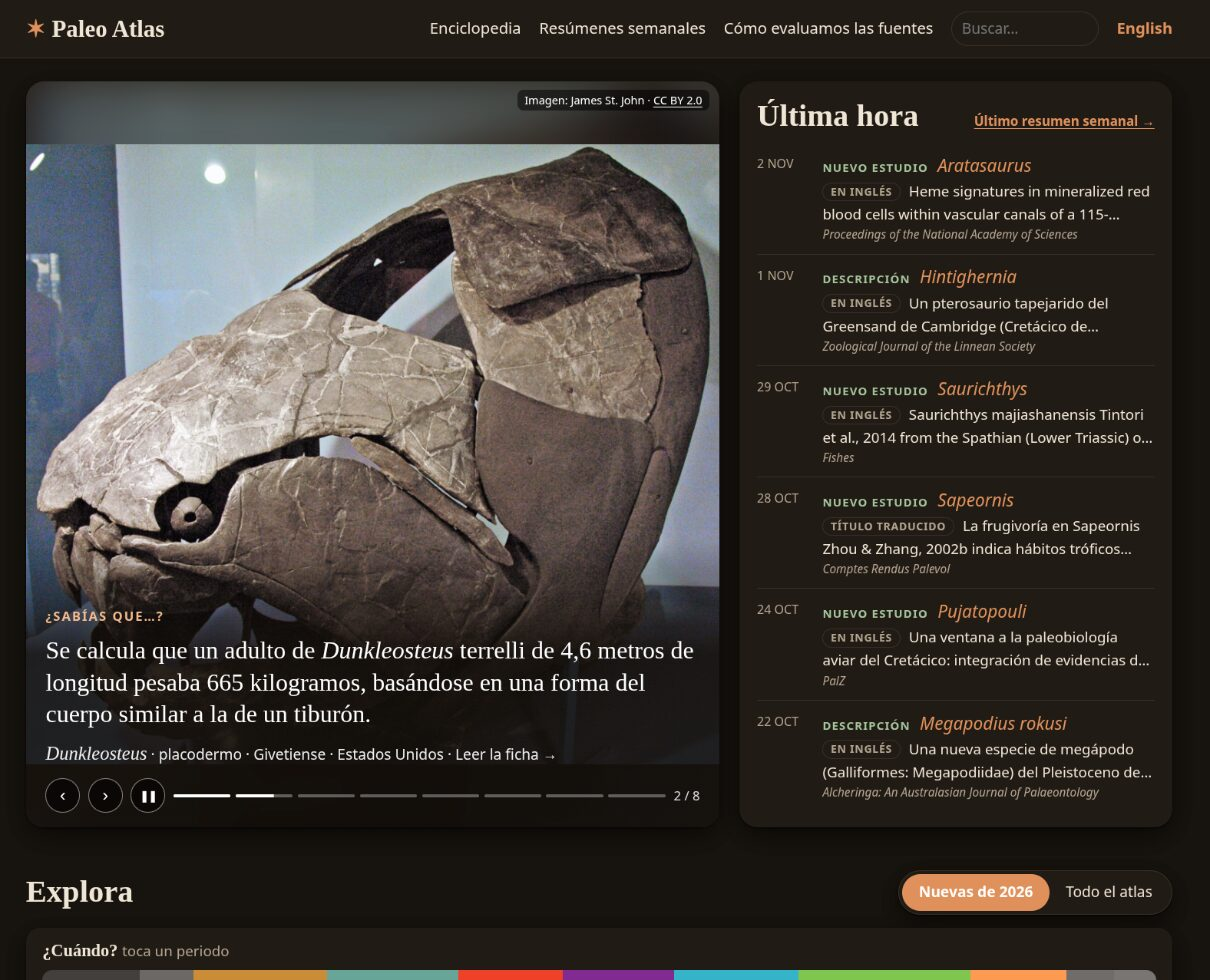
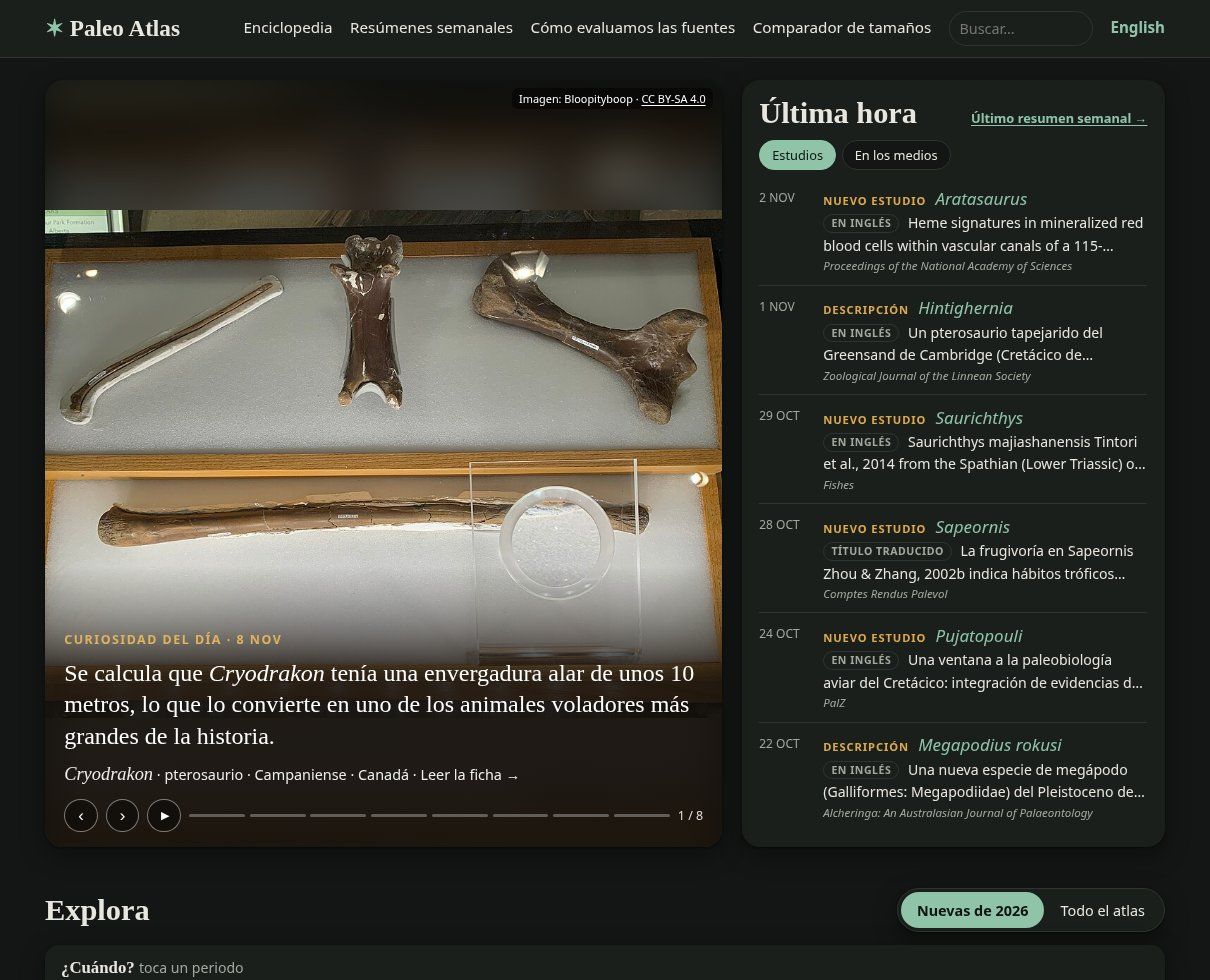
README screenshots with the new palette, and the script that takes them
Claude-Session: https://claude.ai/code/session_01V6qU33AXgN14MdfEPtxDkp

diff --git a/scripts/screenshots.py b/scripts/screenshots.py
@@ -1,0 +1,82 @@
+"""README screenshots (docs/img/web/) from the local build, in dark mode, 1210x980.
+
+    uv run paleo site
+    uv run --with playwright python scripts/screenshots.py
+
+Uses the Chromium Playwright already installed (``playwright install chromium``);
+the site is served from site/_build on a free local port while it runs.
+"""
+
+from __future__ import annotations
+
+import functools
+import http.server
+import threading
+from pathlib import Path
+
+from playwright.sync_api import sync_playwright
+
+ROOT = Path(__file__).resolve().parents[1]
+BUILD = ROOT / "site" / "_build"
+OUT = ROOT / "docs" / "img" / "web"
+VIEW = {"width": 1210, "height": 980}
+
+
+class Quiet(http.server.SimpleHTTPRequestHandler):
+    def log_message(self, *args) -> None:
+        pass
+
+
+def serve() -> tuple[http.server.ThreadingHTTPServer, str]:
+    handler = functools.partial(Quiet, directory=str(BUILD))
+    server = http.server.ThreadingHTTPServer(("127.0.0.1", 0), handler)
+    threading.Thread(target=server.serve_forever, daemon=True).start()
+    return server, f"http://127.0.0.1:{server.server_address[1]}"
+
+
+def scroll_to(page, selector: str, offset: int = 70) -> None:
+    """Put an element just under the sticky header."""
+    page.evaluate(
+        "([s, o]) => window.scrollTo(0, document.querySelector(s).getBoundingClientRect().top"
+        " + window.scrollY - o)",
+        [selector, offset],
+    )
+    page.wait_for_timeout(600)
+
+
+def main() -> None:
+    server, base = serve()
+    OUT.mkdir(parents=True, exist_ok=True)
+    try:
+        with sync_playwright() as p:
+            browser = p.chromium.launch()
+            # Reduced motion: the carousel starts paused, so the shot is stable.
+            ctx = browser.new_context(viewport=VIEW, color_scheme="dark", reduced_motion="reduce",
+                                      locale="es-ES")  # fmt: skip
+            page = ctx.new_page()
+
+            page.goto(f"{base}/es/index.html", wait_until="networkidle")
+            page.wait_for_timeout(800)
+            page.screenshot(path=OUT / "home.jpg", quality=85, type="jpeg")
+
+            page.click('.scope button[data-scope="all"]')
+            page.locator(".ribbon__seg", has_text="Cretácico").first.click()
+            page.wait_for_timeout(1200)
+            scroll_to(page, "#h-explore", 80)
+            page.screenshot(path=OUT / "explore.jpg", quality=85, type="jpeg")
+
+            page.goto(f"{base}/es/taxones/tyrannosaurus.html", wait_until="networkidle")
+            page.wait_for_timeout(800)
+            page.screenshot(path=OUT / "taxon.jpg", quality=85, type="jpeg")
+
+            scroll_to(page, "#parientes", 80)
+            page.wait_for_timeout(600)
+            page.screenshot(path=OUT / "taxon-relatives.jpg", quality=85, type="jpeg")
+            browser.close()
+    finally:
+        server.shutdown()
+    print("Screenshots:", ", ".join(sorted(f.name for f in OUT.glob("*.jpg"))))
+
+
+if __name__ == "__main__":
+    main()

diff --git a/ALCANCE.md b/ALCANCE.md
@@ -801,7 +801,7 @@ Ideas que **no** están en el alcance todavía. Para pasar una idea al alcance: 
 
 | Fecha | Cambio | Motivo |
 |---|---|---|
-| 2026-11-08 | v43: **paleta nueva «Fósil y resina»** (§11), elegida por el usuario entre tres maquetas aplicadas a la web real (portada, ficha, comparador y noticias, en claro y oscuro): fondo de caliza, acento verde pino y ámbar como segundo color, en vez de crema y terracota (se parecía demasiado a la interfaz de Claude). Contraste AA comprobado en los dos modos (la anterior fallaba con el texto blanco de los botones en oscuro, 2,53, y en los avisos, 3,86). Los colores sueltos pasan a tokens: texto sobre el acento, fondo de las fotos, mapa (que salía siempre oscuro porque usaba dos tokens inexistentes), suelo y siluetas del comparador (`--cmp`, leído por `compare.js`), visor y favicon. Los colores de la carta cronoestratigráfica no cambian | Decisión del usuario |
+| 2026-11-08 | v43: **paleta nueva «Fósil y resina»** (§11), elegida por el usuario entre tres maquetas aplicadas a la web real (portada, ficha, comparador y noticias, en claro y oscuro): fondo de caliza, acento verde pino y ámbar como segundo color, en vez de crema y terracota (se parecía demasiado a la interfaz de Claude). Contraste AA comprobado en los dos modos (la anterior fallaba con el texto blanco de los botones en oscuro, 2,53, y en los avisos, 3,86). Los colores sueltos pasan a tokens: texto sobre el acento, fondo de las fotos, mapa (que salía siempre oscuro porque usaba dos tokens inexistentes), suelo y siluetas del comparador (`--cmp`, leído por `compare.js`), visor y favicon. Los colores de la carta cronoestratigráfica no cambian. Capturas del README rehechas con `scripts/screenshots.py` (Playwright, modo oscuro, 1210×980, desde el build local) | Decisión del usuario |
 | 2026-11-08 | v42: **siluetas del comparador** (§11.3). La ingesta de PhyloPic solo comparaba el primer nombre de cada nodo (un género monotípico es el segundo nombre del nodo de su especie: *Giganotosaurus* salía «no encontrado» y se dibujaba con la silueta de Tetanurae, un *Monolophosaurus*) y solo guardaba la imagen principal (a veces no comercial, cuando hay otras CC0 o CC BY). Ahora acepta ese segundo nombre (no otros: Loricata también es un nombre de los quitones) y guarda hasta 12 imágenes por nodo (`stg_phylopic__node_images`); el modelo toma la primera con licencia permitida. `paleo ingest images --phylopic-for-sizes` vuelve a consultar los 875 nombres de los que sale la silueta de un animal del comparador; el resto se pone al día con la renovación mensual. 50 poses más en `silhouette_exclusions`, revisadas a ojo en tres vueltas. Los pterosaurios no se dibujan (casi todos están en vuelo en PhyloPic y se miden por la envergadura, en el backlog), ni las especies nuevas que PBDB aún no ha clasificado (6: heredaban la silueta de todo su grupo, y Dinosauria es un *Eoraptor*); cuando PBDB las clasifique, la ejecución diaria las dibujará sola. Resultado: 417 de 429 dibujables, 190 con la silueta del propio animal o su género (antes 71). *Allodaposuchus* reescrita con la GPU local (con permiso) sin el hecho rechazado en la v41 | Revisión del usuario: siluetas de otros animales en *Giganotosaurus*, *Gigantoraptor* y *Utahraptor* |
 | 2026-11-08 | v41: **Fase 5 cerrada** (casillas verificadas con datos, `docs/fases/fase-5.md`). **Enlace de noticias a fichas** (`int_news_taxa`): el camino del LLM también llega a los géneros nuevos con ficha propia (la noticia de *Jian changmaensis* enlazaba a *Velociraptor*, citado de pasada); si el LLM confirmó la ficha de una noticia, se descartan las que solo salen por el texto; seed `taxon_aliases` con los nombres de prensa (megalodón → *Otodus*). En la muestra a ciegas, F1 de 0,60 a 0,67. Acierto de la muestra del glosario publicado como porcentaje (19 de 20, 95 %). **Nombres de especie en los hechos** (§16): `check_fact` rechaza un hecho que abrevia una especie que su fuente no nombra o que cambia la especie de la cita por otra («A. volgensis» → «A. volynensis»); `paleo recheck-facts` lo aplica sin modelo a los hechos guardados: 4 rechazados de 36.074 (*Allodaposuchus*, *Asiatosuchus*, *Anchiceratops* y *Camarasaurus*, este último un falso rechazo por la errata «C. supremo» de la fuente); solo *Allodaposuchus* tenía el hecho en su texto. En las fichas, las abreviaturas de especie («T. rex») van en cursiva y enlazan a la ficha de la especie de su propio género (en *Tylosaurus*, a *Tylosaurus rex*, especie de 2026, que no era un error) | Revisión del usuario: verificar la Fase 5 con datos y las abreviaturas de los hechos |
 | 2026-11-08 | v40: **la Fase 6 se queda en el comparador de tamaños** y los modelos 3D pasan al backlog (§13, §24). Comparador hecho (§11.3): tarjeta en la ficha, ventana con el fondo difuminado y página propia; tamaños de las frases verificadas (`paleo sizes extract`: regla estricta + Groq para las dudosas, 429 taxones; muestra de 20 revisada: 19 correctas, 1 sin decidir); siluetas PhyloPic servidas desde la web (su servidor no envía CORS) y elegidas por toda la clasificación, con 42 poses excluidas a mano; referencias con fuente (NCD-RisC, Wikipedia con revisión); arrastre por el dibujo. Nuevos: seeds `reference_objects` y `silhouette_exclusions`, `fct_taxon_size`, pasos `sizes extract` y `sizes silhouettes` en `pipeline.yml` y en el DAG | Decisión del usuario (maquetas: tarjeta A + ventana C) |
